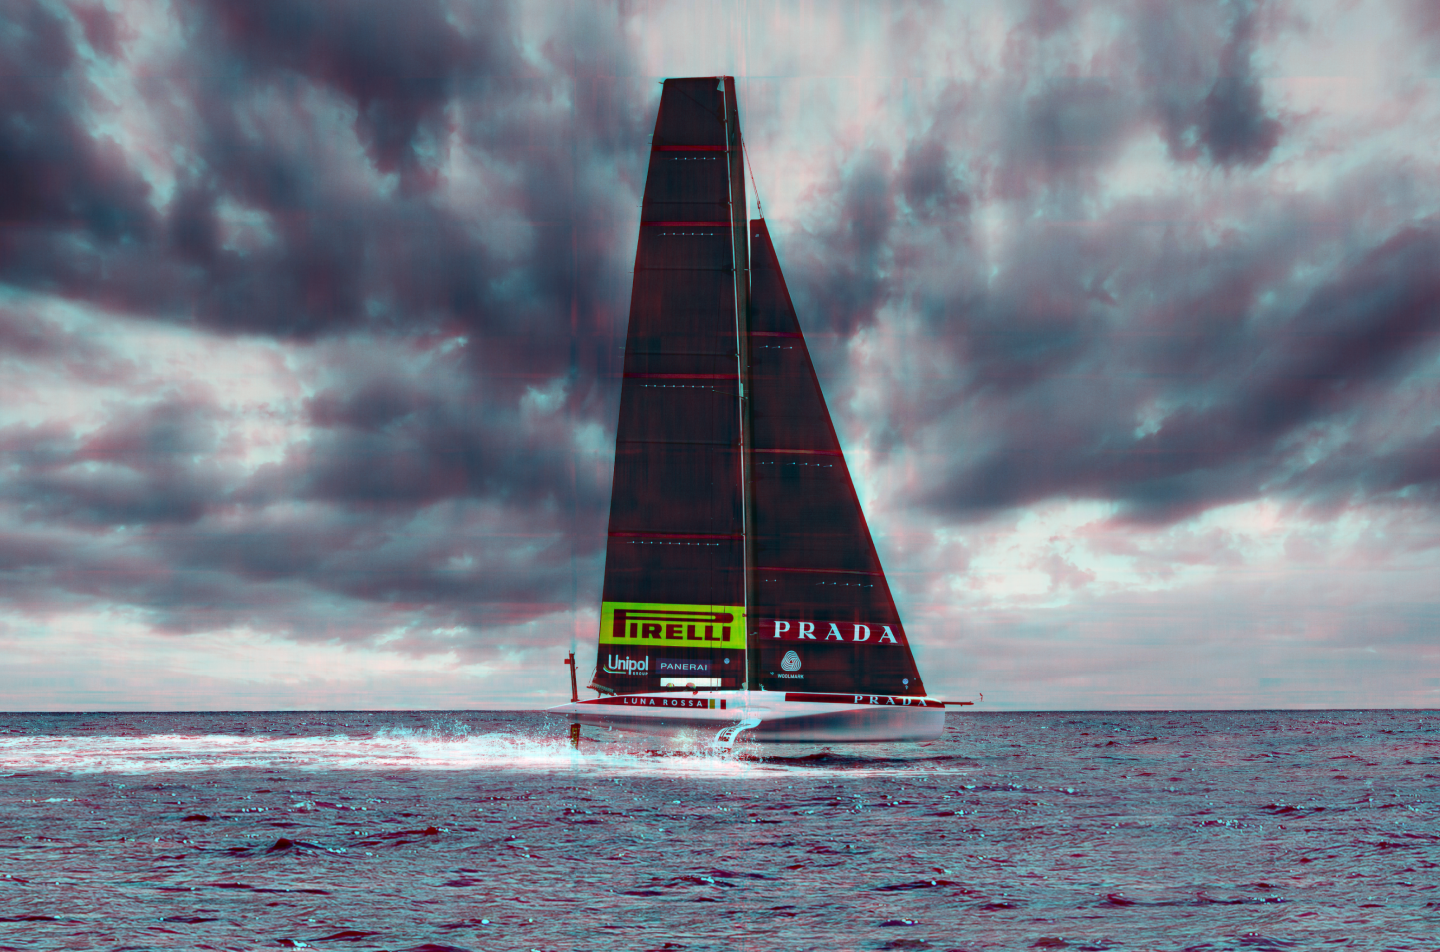
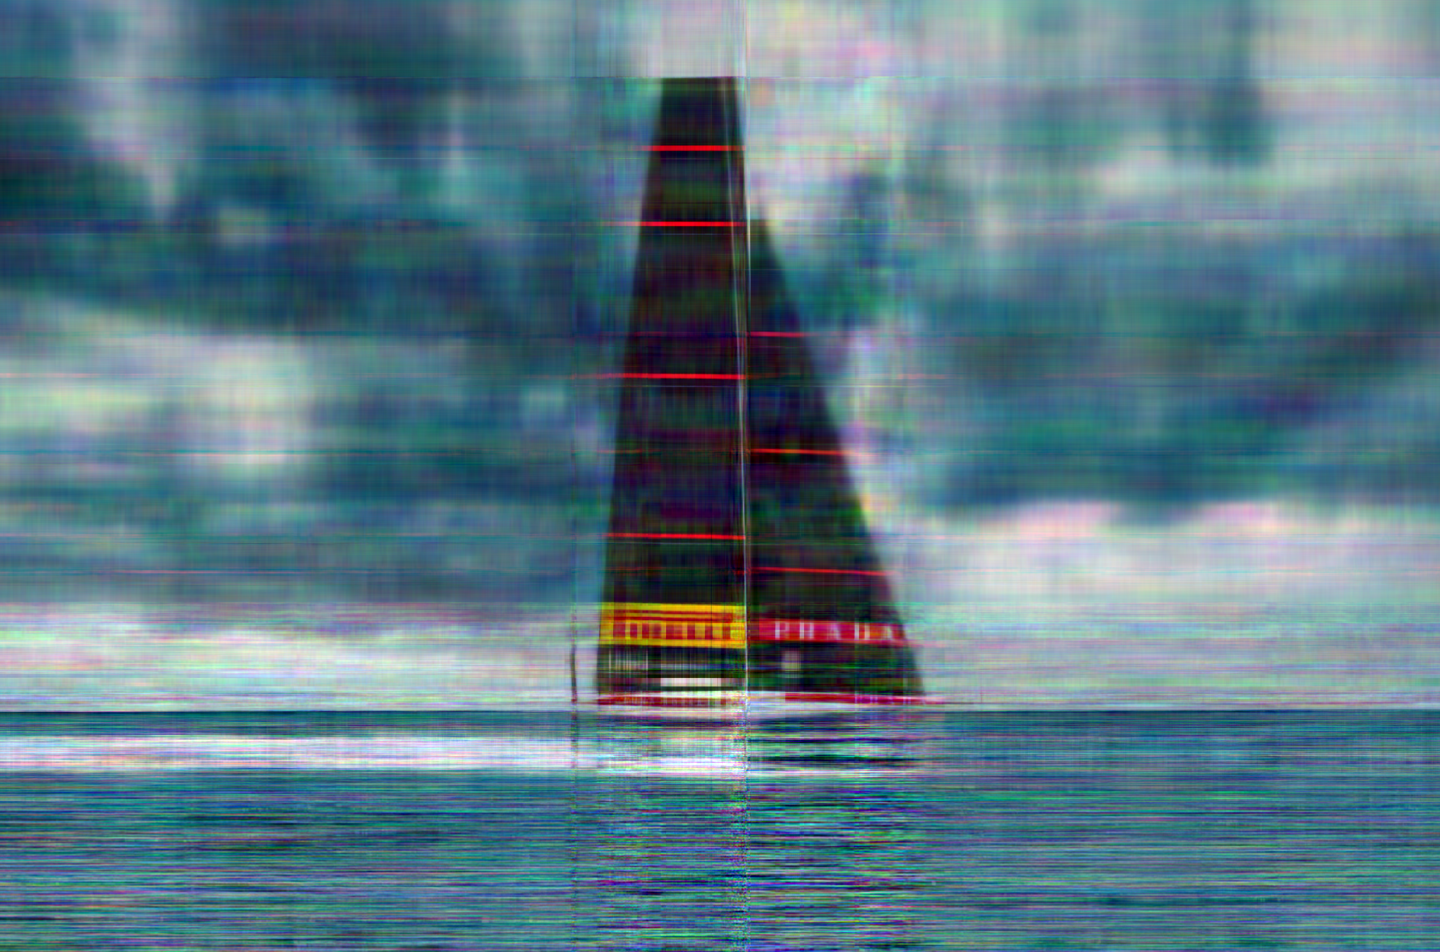
updated version of image compression with rigth colouring

diff --git a/src/applications.hpp b/src/applications.hpp
@@ -18,22 +18,22 @@ public:
         return U.transpose() * X;
     }
 
-    Matrix image_compression(const stbi_uc *R, int channels, int Heigth, int Width)
+    Matrix image_compression(const stbi_uc *R, int channels, int channel, int Heigth, int Width)
     {
         Matrix X;
-        X = grayscale(R, channels, Heigth, Width);
+        X = ExctractComponentLuminosity(R, channels, channel, Heigth, Width);
 
         SVD obj;
-        int r = 5;
+        int r = 15;
         int p = 10;
-        auto [U, s, V] = obj.rsvd(X, r, p);
+        auto [U, s, V] = obj.rsvd(X, r, p, 0);
         return obj.mult_SVD(U, s, V);
     }
 
-    Matrix grayscale(const stbi_uc *image, int channels, int Heigth, int Width)
+    Matrix ExctractComponentLuminosity(const stbi_uc *image, int channels, int colour, int Heigth, int Width)
     {
-        Matrix grayscaleImage(Heigth, Width);
-        #pragma omp parallel for collapse(2)
+        Matrix RgbComponent(Heigth, Width);
+#pragma omp parallel for collapse(2)
         for (int i = 0; i < Heigth; i++)
         {
             for (int j = 0; j < Width; j++)
@@ -41,43 +41,24 @@ public:
                 int index = (i * Width + j) * channels;
 
                 /**
-                 * Extraction of color components from an image in RGB format
-                 * We store the three components in an array
+                 * Exctraction of luminosity for each component
                  */
-                unsigned char red = image[index];
-                unsigned char green = image[index + 1];
-                unsigned char blue = image[index + 2];
-
-                /**
-                    Set the grayscale value by using the luminosity formula for each channel and normalize by the max value = 255
-                */
-                // grayscaleImage(i, j) = static_cast<double>(0.21 * red + 0.72 * green + 0.07 * blue) / 255.;
-
-                /**
-                 * AVG method
-                 */
-                grayscaleImage(i, j) = static_cast<double>((red + green + blue) / 3) / 255.;
-
-                /**
-                 * LIGHTNESS method
-                 */
-                //grayscaleImage(i, j) = static_cast<double>((std::max({red, green, blue}) + std::min({red, green, blue})) / 2) / 255.;
+                unsigned char rgb = image[index + colour];
+                RgbComponent(i, j) = static_cast<double>(rgb) / 255.;
             }
         }
 
-        return grayscaleImage;
+        return RgbComponent;
     }
 
-    void backward_conversion(stbi_uc *image, Matrix Compressed, int channels, int Height, int Width)
+    void backward_conversion(stbi_uc *image, const Matrix CompressedComponent, int channels, int channel, int Height, int Width)
     {
-        // Convert the Eigen matrix back to image data
-        #pragma omp parallel for collapse(2)
+#pragma omp parallel for collapse(2)
         for (int i = 0; i < Height; ++i)
         {
             for (int j = 0; j < Width; ++j)
             {
-                // Clip values to ensure they are within the valid range [0, 255]
-                image[(i * Width + j) * channels] = static_cast<stbi_uc>(std::min(255.0, std::max(0.0, Compressed(i, j) * 255.0)));
+                image[(i * Width + j) * channels + channel] = static_cast<stbi_uc>(std::min(255.0, std::max(0.0, CompressedComponent(i, j) * 255.0)));
             }
         }
     }

diff --git a/src/imagecompr.cpp b/src/imagecompr.cpp
@@ -15,10 +15,10 @@
 
 /**
  * Brief Main function to demonstrate image compression.
- * 
+ *
  * This program loads an input image in PNG format, compresses it using an SVD-based
  * method, and saves the compressed image as a PNG file.
- * 
+ *
  * return 0 if the program runs successfully, -1 on failure.
  */
 int main()
@@ -33,16 +33,15 @@ int main()
 
     /**
      * Create the object of the compression image application
-    */
+     */
     APPLICATIONS obj;
 
     int Width, Height, channels;
 
     /**
      * Load the input image
-    */
+     */
     stbi_uc *Image = stbi_load(filename, &Width, &Height, &channels, 0);
-
 
     if (Image == nullptr)
     {
@@ -51,31 +50,37 @@ int main()
     }
 
     /**
-     * Create a matrix for compressed image data
-    */
-    Matrix Compressed(Height, Width);
+     * Create a matrix for compressed image data for each rgb component
+     */
+    Matrix CompressedRed(Height, Width);
+    Matrix CompressedGreen(Height, Width);
+    Matrix CompressedBlue(Height, Width);
 
     /**
      *  Perform image compression using SVD
-    */
+     */
 
-    Compressed = obj.image_compression(Image, channels, Height, Width);
+    CompressedRed = obj.image_compression(Image, channels, 0, Height, Width);
+    CompressedGreen = obj.image_compression(Image, channels, 1, Height, Width);
+    CompressedBlue = obj.image_compression(Image, channels, 2, Height, Width);
 
     /**
      * Perform backward conversion to obtain the decompressed image
-    */
-    obj.backward_conversion(Image, Compressed, channels, Height, Width);
+     */
+    obj.backward_conversion(Image, CompressedRed, channels, 0, Height, Width);
+    obj.backward_conversion(Image, CompressedGreen, channels, 1, Height, Width);
+    obj.backward_conversion(Image, CompressedBlue, channels, 2, Height, Width);
+
 
     /**
      * Save the decompressed image
-    */
+     */
     stbi_write_png(outputFilename, Width, Height, channels, Image, Width * channels);
 
     /**
      * Free allocated memory
-    */
+     */
     stbi_image_free(Image);
-
 
     return 0;
 }
